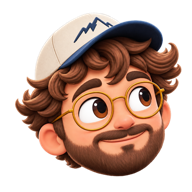
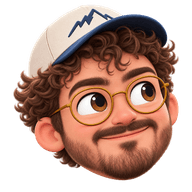
Promeut Florian V2 et fait varier sa note (#43)

diff --git a/app/public/avatar.js b/app/public/avatar.js
@@ -3,33 +3,74 @@
 (() => {
   const root = document.documentElement;
   const variants = ["original", "wind", "beanie", "summer", "flower"];
+  const taglines = [
+    "Alors, on part où ?",
+    "On met le cap où ?",
+    "Tu rêves de partir où ?",
+    "On prépare la valise ?",
+    "On change d’air ?",
+    "Tu m’emmènes où ?",
+    "Un coin en tête ?",
+    "On part bientôt ?",
+    "On vise quelle escale ?",
+    "C’est où, la prochaine ?",
+  ];
   const requestedVariant = /(?:^|[?&])avatar=(original|wind|beanie|summer|flower)(?:&|$)/u
     .exec(globalThis.location?.search ?? "")?.[1];
   const selectedVariant = requestedVariant ?? variants[Math.floor(Math.random() * variants.length)];
-  const prefix = globalThis.location?.pathname === "/v2" ? "florian-v2" : "florian";
+  let previousTaglineIndex = -1;
+  try {
+    previousTaglineIndex = Number.parseInt(
+      globalThis.sessionStorage?.getItem("monflorian:last-tagline") ?? "",
+      10,
+    );
+  } catch {
+    previousTaglineIndex = -1;
+  }
+  const availableTaglineIndexes = taglines
+    .map((_, index) => index)
+    .filter((index) => index !== previousTaglineIndex);
+  const selectedTaglineIndex = availableTaglineIndexes[
+    Math.floor(Math.random() * availableTaglineIndexes.length)
+  ];
+  const selectedTagline = taglines[selectedTaglineIndex];
+  try {
+    globalThis.sessionStorage?.setItem(
+      "monflorian:last-tagline",
+      String(selectedTaglineIndex),
+    );
+  } catch {
+    // Session storage is optional.
+  }
   const sources = {
-    compact: `/assets/${prefix}-${selectedVariant}-web.webp`,
-    intro: `/assets/${prefix}-${selectedVariant}-intro.webp`,
+    compact: `/assets/florian-v2-${selectedVariant}-web.webp`,
+    intro: `/assets/florian-v2-${selectedVariant}-intro.webp`,
   };
 
   root.classList.add("is-florian-loading");
 
+  const runWhenReady = (callback) => {
+    if (document.readyState === "loading") {
+      document.addEventListener("DOMContentLoaded", callback, { once: true });
+      return;
+    }
+    callback();
+  };
   const reveal = () => root.classList.remove("is-florian-loading");
+  const applyTagline = () => {
+    const tagline = document.querySelector("[data-florian-tagline]");
+    if (tagline) tagline.textContent = selectedTagline;
+  };
   const applyVariant = () => {
     document.querySelectorAll("[data-florian-variant]").forEach((image) => {
       image.src = image.hasAttribute("data-florian-intro") ? sources.intro : sources.compact;
     });
     reveal();
   };
-  const applyWhenReady = () => {
-    if (document.readyState === "loading") {
-      document.addEventListener("DOMContentLoaded", applyVariant, { once: true });
-      return;
-    }
-    applyVariant();
-  };
+
+  runWhenReady(applyTagline);
 
   const candidate = new Image();
   candidate.src = sources.intro;
-  candidate.decode().then(applyWhenReady, reveal);
+  candidate.decode().then(() => runWhenReady(applyVariant), reveal);
 })();

diff --git a/app/public/index.html b/app/public/index.html
@@ -63,9 +63,9 @@
       type="font/woff2"
       crossorigin
     />
-    <script src="/avatar.js?v=3"></script>
+    <script src="/avatar.js?v=6"></script>
     <script src="/motion.js?v=2"></script>
-    <link rel="stylesheet" href="/styles.css?v=intro-pencil-1" />
+    <link rel="stylesheet" href="/styles.css?v=intro-sage-1" />
     <script src="/app.js?v=motion-stable-2" defer></script>
   </head>
   <body itemscope itemtype="https://schema.org/WebSite">
@@ -86,7 +86,7 @@
           <span class="brand-character" aria-hidden="true">
             <img
               data-florian-variant
-              src="/assets/florian-original-web.webp"
+              src="/assets/florian-v2-original-web.webp"
               alt=""
               width="384"
               height="384"
@@ -114,7 +114,7 @@
               <img
                 data-florian-variant
                 data-florian-intro
-                src="/assets/florian-original-intro.webp"
+                src="/assets/florian-v2-original-intro.webp"
                 alt=""
                 width="1024"
                 height="1024"
@@ -140,7 +140,7 @@
               <path d="M11 43 C96 33 183 49 276 39 S390 38 429 46" />
               <path d="M25 67 C105 58 194 72 284 62 S386 62 414 69" />
             </svg>
-            <span>Alors, on part où&nbsp;?</span>
+            <span data-florian-tagline>Alors, on part où&nbsp;?</span>
           </span>
         </span>
         <span class="brand-intro-trigger"></span>
@@ -418,7 +418,7 @@
             <div class="florian-card">
               <img
                 data-florian-variant
-                src="/assets/florian-original-web.webp"
+                src="/assets/florian-v2-original-web.webp"
                 alt=""
                 width="384"
                 height="384"

diff --git a/app/public/styles.css b/app/public/styles.css
@@ -18,7 +18,7 @@
   --cream: #fff8eb;
   --paper: #fffefb;
   --surface: #f4f7ff;
-  --pencil: #454950;
+  --pencil-sage: #85897a;
   --surface-blue: #eaf2ff;
   --line: rgba(6, 26, 59, 0.14);
   --line-strong: rgba(6, 26, 59, 0.25);
@@ -239,9 +239,9 @@ html.has-intro-swap .brand-intro {
 .brand-intro-tagline {
   position: relative;
   display: grid;
-  min-width: min(310px, calc(100vw - 48px));
+  width: min(310px, calc(100vw - 48px));
   padding: 12px 26px 14px;
-  color: var(--pencil);
+  color: var(--pencil-sage);
   font-family: "Kalam", "Bradley Hand", "Segoe Print", cursive;
   font-size: clamp(18px, 1.8vw, 25px);
   font-style: normal;
@@ -250,6 +250,7 @@ html.has-intro-swap .brand-intro {
   line-height: 1.05;
   place-items: center;
   text-align: center;
+  text-wrap: balance;
   transform: rotate(-1.1deg);
 }
 
@@ -2188,7 +2189,7 @@ textarea:disabled {
   }
 
   .brand-intro-tagline {
-    min-width: min(278px, calc(100vw - 72px));
+    width: min(278px, calc(100vw - 72px));
     padding: 8px 20px 10px;
     font-size: 17px;
     transform: rotate(-0.8deg);

diff --git a/ASSETS.md b/ASSETS.md
@@ -15,7 +15,7 @@ Source canonique des visuels de marque et des références importées depuis le 
[8 lines of base64/hex data omitted]
@@ -25,7 +25,7 @@ Source canonique des visuels de marque et des références importées depuis le 
[8 lines of base64/hex data omitted]
@@ -35,15 +35,15 @@ Source canonique des visuels de marque et des références importées depuis le 
[19 lines of base64/hex data omitted]
 
@@ -66,9 +66,11 @@ Source canonique des visuels de marque et des références importées depuis le 
   charge les dérivés `monflorian-wordmark-intro.webp`, `florian-*-intro.webp` ou
   `florian-v2-*-intro.webp`, issus des mêmes masters à une définition adaptée à
   sa largeur complète.
-- Une visite utilise une seule variante de Florian. `/` choisit dans la première
-  famille et `/v2` dans la seconde. `florian-original-web.webp` reste le repli
-  sans JavaScript ou en cas d'échec de chargement.
+- Une visite utilise une seule variante de Florian dans la famille V2, désormais
+  active sur `/`. `/v2` redirige vers l'accueil. Les fichiers de la première
+  famille restent une archive de retour, mais l'interface ne les sert plus.
+  `florian-v2-original-web.webp` reste le repli sans JavaScript ou en cas
+  d'échec de chargement.
 - Les dix portraits sont des PNG RGBA carrés de même taille. Leurs quatre coins
   et au moins 30 % de leur canevas sont totalement transparents. Les composants
   d'accueil ne leur ajoutent aucun fond.

diff --git a/DESIGN.md b/DESIGN.md
@@ -18,7 +18,7 @@ colors:
   cream: "#fff8eb"
   paper: "#fffefb"
   surface: "#f4f7ff"
-  pencil: "#454950"
+  pencilSage: "#85897a"
   line: "rgba(6, 26, 59, 0.12)"
   muted: "#66738b"
 typography:
@@ -52,7 +52,7 @@ Le lockup fourni reste le master de référence. L'application sépare désormai
 son personnage et son mot-symbole. Le mot "Mon Florian" et l'avion ne changent
 jamais. Le navigateur choisit un seul portrait de Florian au chargement et
 l'utilise partout pendant cette visite. Si le script ou le portrait choisi
-échoue, il conserve le personnage original.
+échoue, il conserve le personnage original de la famille V2.
 
 Les variantes gardent le même visage, les lunettes rondes dorées, les yeux
 bruns, la barbe, le sourire et le rendu 3D doux du master. Seuls les cheveux,
@@ -62,15 +62,14 @@ personnage reste transparent. Aucun fichier ni composant ne peint de fond, de
 médaillon, de halo ou d'ombre derrière lui. Le portrait ne reçoit ni texte, ni
 décor, ni second personnage.
 
-Deux familles de cinq portraits permettent une comparaison visuelle sans
-modifier le reste de l'accueil. La route `/` utilise la famille d'origine et la
-route `/v2` la nouvelle famille. Elles partagent les variantes sémantiques
-`original`, `wind`, `beanie`, `summer` et `flower`. Le paramètre facultatif
-`?avatar=` fixe la même variante dans les deux familles pour un test apparié.
-Sans ce paramètre, chaque visite en choisit une au hasard. `/v2` reste hors
-index et le portrait original de la première famille reste le repli commun sans
-JavaScript ou en cas d'échec. Une nouvelle variante doit respecter le contrat
-de transparence automatisé avant d'entrer dans une famille.
+La famille V2 a remporté la comparaison visuelle et devient la famille active
+sur `/`. Elle conserve les variantes sémantiques `original`, `wind`, `beanie`,
+`summer` et `flower`. Le paramètre facultatif `?avatar=` fixe une variante ;
+sans lui, chaque visite en choisit une au hasard. `/v2` redirige vers l'accueil
+en conservant la requête. Le portrait `florian-v2-original` reste le repli sans
+JavaScript ou en cas d'échec. La première famille reste archivée pour un retour
+explicite, mais n'est plus servie par l'interface. Une nouvelle variante doit
+respecter le contrat de transparence automatisé avant d'entrer dans la famille.
 
 Le changement se produit au chargement. Il ne tourne pas en boucle et ne doit
 pas détourner l'attention du composeur. Florian reste un repère de marque dans
@@ -92,14 +91,15 @@ compatibles peuvent ajouter une profondeur courte avec leur timeline de vue
 native. La préférence de réduction des mouvements supprime cette profondeur et
 les transitions.
 
-La note « Alors, on part où ? » accompagne uniquement le grand lockup. Trois
-traits blancs, irréguliers et légèrement transparents donnent l'impression que
-Florian l'a écrite sur la page. Le texte utilise Kalam en gris graphite, comme
-un trait de crayon, et reste statique : aucun effet de saisie, aucune boucle et
-aucun mouvement ne sont nécessaires. La fonte latine WOFF2 est auto-hébergée,
-préchargée et limitée à ce seul rôle. Sur mobile, la note et son papier se
-resserrent sans descendre sous `17 px`. Le même traitement apparaît sur `/` et
-`/v2` afin que la comparaison porte seulement sur le portrait.
+Une note choisie parmi dix phrases courtes accompagne uniquement le grand
+lockup. Le tirage change à chaque chargement et évite de répéter immédiatement
+la phrase précédente dans le même onglet. Trois traits blancs, irréguliers et
+légèrement transparents donnent l'impression que Florian l'a écrite sur la
+page. Le texte utilise Kalam en crayon sauge `#85897a` et reste statique : aucun
+effet de saisie, aucune boucle et aucun mouvement ne sont nécessaires. La fonte
+latine WOFF2 est auto-hébergée, préchargée et limitée à ce seul rôle. La surface
+garde une largeur fixe pour éviter qu'une phrase déplace le lockup. Sur mobile,
+la note et son papier se resserrent sans descendre sous `17 px`.
 
 ## Colors
 

diff --git a/CHANGELOG.md b/CHANGELOG.md
@@ -4,6 +4,10 @@ Git reste la source du diff technique. Les ADR expliquent les décisions importa
 
 ## Non publié
 
+- Promotion des cinq portraits V2 sur l'accueil, les replis, les icônes et la
+  carte sociale. `/v2` redirige désormais vers la page principale.
+- Rotation de dix notes manuscrites sans répétition immédiate dans le même
+  onglet, avec une largeur stable et la teinte crayon sauge `#85897a`.
 - Alignement du grand logo et de toute l'introduction sur les gouttières du
   contenu, avec une largeur maximale commune de `1240 px`.
 - Passage de la note « Alors, on part où ? » en Kalam auto-hébergée et gris

diff --git a/PROJECT.md b/PROJECT.md
@@ -48,8 +48,8 @@ client et le Voyage vivant restent des hypothèses non livrées.
 - Booking en mode `external`, sans affiliation annoncée.
 - Aperçu Cloudflare public qui refuse toute génération.
 - Custom Domains `monflorian.com` et `www.monflorian.com` actifs en HTTPS.
-- Variante visuelle `/v2` hors index pour comparer deux familles de cinq
-  portraits, sans modifier le parcours ni ses garde-fous.
+- Famille validée de cinq portraits V2 sur l'accueil, avec rotation aléatoire
+  et choix facultatif par `?avatar=`. L'ancienne route `/v2` redirige vers `/`.
 
 ### À livrer avant une génération réelle
 
